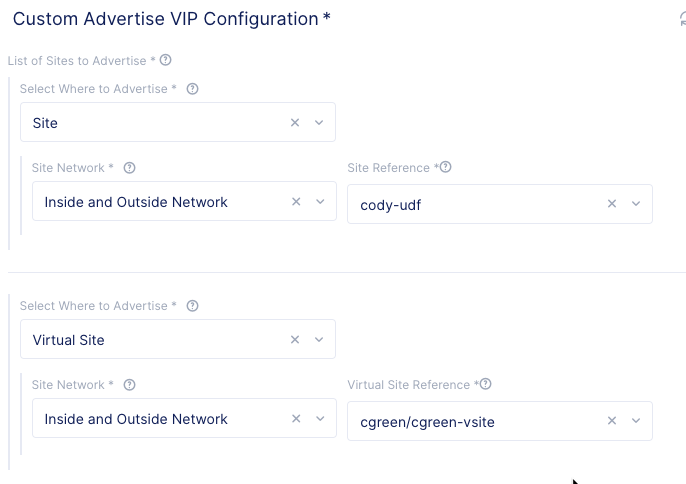
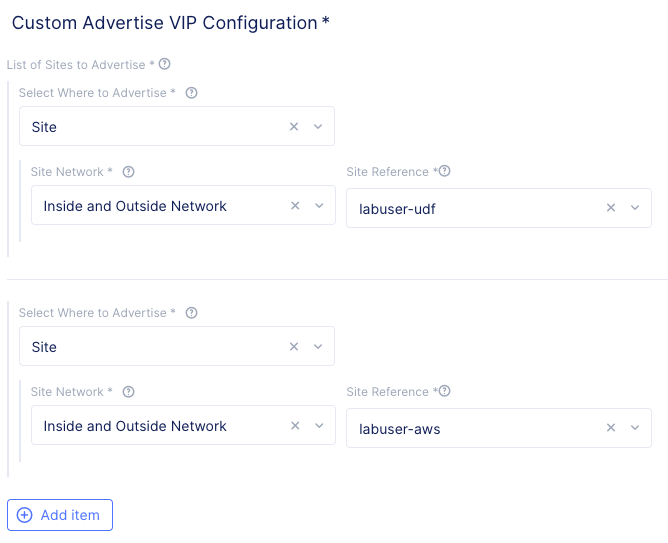
Move Mongo Origin Pool to TCP Load Balancer Exercise Fixes #49

diff --git a/application/docs/state2/tcpLb.rst b/application/docs/state2/tcpLb.rst
@@ -4,14 +4,61 @@ Create a TCP Load Balancer
 In this section we will create a TCP load balancer so we can present the MongoDB in both the UDF and AWS sites.
 This will be needed so that the API service running in the AWS site can access the on-premise database.
 
-Exercise 1: Create MongoDB TCP Load Balancer
+Exercise 1: Create DynamoDB Origin Pool
+~~~~~~~~~~~~~~~~~~~~~~~~~~~~~~~~~~~~~~~
+
+#. In VoltConsole ensure you are in the *Application* context
+
+    |app-context| 
+
+#. Navigate the menu to go to *Manage* -> *Load Balancer*, then click *Origin Pools*
+
+    |origin_pools_menu|
+
+#. Click the *Add Origin Pool* button
+
+    |origin_pools_add|
+    
+#. Enter the following variables:
+
+=============================== ===============
+Variable                        Value
+=============================== ===============
+Origin Pool Name                brews-mongodb
+Select Type of Origin Server    IP address of Origin Server on given Sites
+IP address                      10.1.1.4
+Site                            Your UDF site
+Select Network on the site      Outside Network
+Port                            27017
+=============================== ===============
+
+|origin_pools_config_dynamodb|
+
+#. Under the *List of Health Check(s)* section, click the *Select healthcheck* dropdown
+
+#. Click the *Create new Healthcheck* button
+
+#. Enter the following variables:
+
+=============================== ===============
+Variable                        Value
+=============================== ===============
+Name                            brews-mongodb
+Health Check                    TCP HealthCheck
+=============================== ===============
+
+#. Click the *Continue* button to close the *Health Check Parameters* dialogue. 
+
+#. Click the *Save and Exit* button to close the *Origin Pool* dialogue.
+
+Exercise 2: Create MongoDB TCP Load Balancer
 ~~~~~~~~~~~~~~~~~~~~~~~~~~~~~~~~~~~~~~~~~~~~~
 
 #. In VoltConsole ensure you are in the *Application* context
 
     |app-context| 
 
-#. Navigate the menu to go to *Manage*->*Load Balancer*, then click *TCP Load Balancers*
+#. Navigate the menu to go to *Manage* -> *Load Balancer*, then click *TCP Load Balancers*
 
     |tcp_lb_menu|
 
@@ -27,9 +74,11 @@ Exercise 1: Create MongoDB TCP Load Balancer
     Where to Advertise the VIP      Advertise Customer
     ==============================  =====
 
+    |tcp_lb_config|
+
 #. Configure Domains
 
-    #. Under the *Domains section click the *Add item* button
+    #. Under the *Domains* section click the *Add item* button
     #. Enter a domain 
 
         ======== =====
@@ -38,13 +87,12 @@ Exercise 1: Create MongoDB TCP Load Balancer
         Domain   your_namespace-mongodb.brews.local
         ======== =====
 
-        |tcp_lb_config|
 #. Configure Origin Pools
 
     #. Under the *Origin Pools* section, click the *Configure* link
     #. Click the *Add item* button
     #. Select the *brews-mongodb* pool
-    #. Click the *Apply* button
+    #. Click the *Apply* button to close the *Origin Pools* dialogue
 
 #. Configure Advertisement 
 
@@ -64,15 +112,15 @@ Exercise 1: Create MongoDB TCP Load Balancer
             =========================== =====
             Variable                    Value
             =========================== =====
-            Select Where to Advertise   Virtual Site
-            Site Reference              Your Virtual Site
+            Select Where to Advertise   Site
+            Site Reference              Your AWS Site
             =========================== =====
 
         |tcp_lb_advertise|
 
-    #. Click the *Apply* button
+    #. Click the *Apply* button to exit the *Advertise Custom* dialogue
 
-#. CLick the *Save and Exit* button
+#. CLick the *Save and Exit* button to exit the *TCP Load Balancer* dialogue
 
 Exercise 2: Configure Demo Application 
 ~~~~~~~~~~~~~~~~~~~~~~~~~~~~~~~~~~~~~~
@@ -105,3 +153,6 @@ If everything is working correctly, the database cart should not turn red.  You 
 .. |demo_app_stats| image:: ../_static/demo_app_stats.png
 .. |demo_app_config_db| image:: ../_static/demo_app_config_db.png
 .. |demo_app_config_db_url| image:: ../_static/demo_app_config_db_url.png
+.. |origin_pools_menu| image:: ../_static/origin_pools_menu.png
+.. |origin_pools_add| image:: ../_static/origin_pools_add.png
+.. |origin_pools_config_dynamodb| image:: ../_static/origin_pools_config_dynamodb.png
